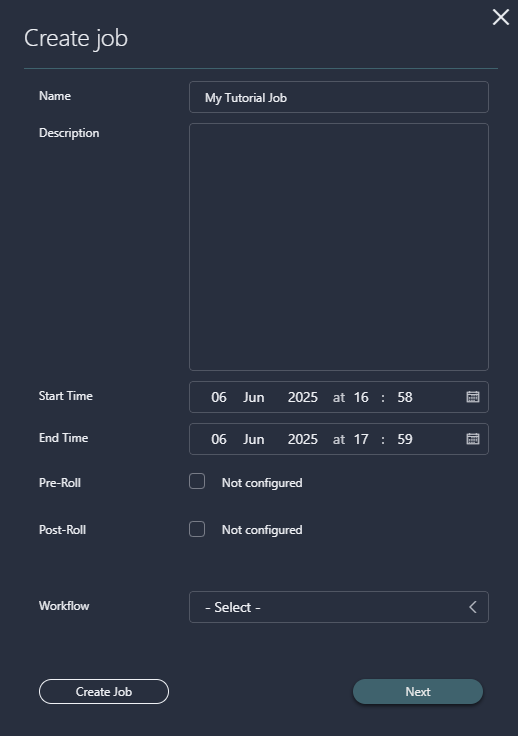
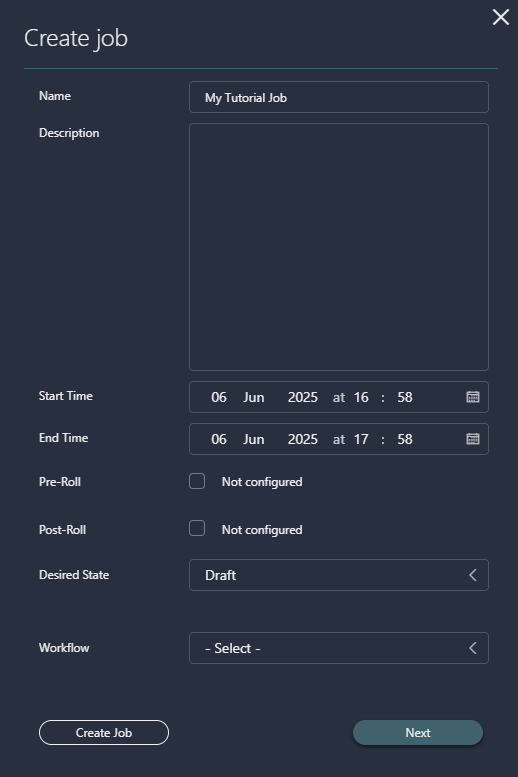
Update MediaOps job creation docs

diff --git a/solutions/standard_solutions/MediaOps/Apps/Scheduling/SCH_Create_Job.md b/solutions/standard_solutions/MediaOps/Apps/Scheduling/SCH_Create_Job.md
@@ -26,6 +26,8 @@ There are three main ways to manually create a new job through the Scheduling ap
 
    This can be useful to ensure that resources are reserved for long enough before the start of the job and after the end of a job, for example so operators or orchestration scripts have enough time to do the setup or to take down the workflow.
 
+1. Configure the job's `Desired State`, which can be `Draft` or `Tentative`.
+
 1. Optionally, click *Next* to select the organization and/or job owner linked to the job.
 
    This will link the job to an organization and/or contact defined in the [People & Organizations](xref:People_Organizations) app.
